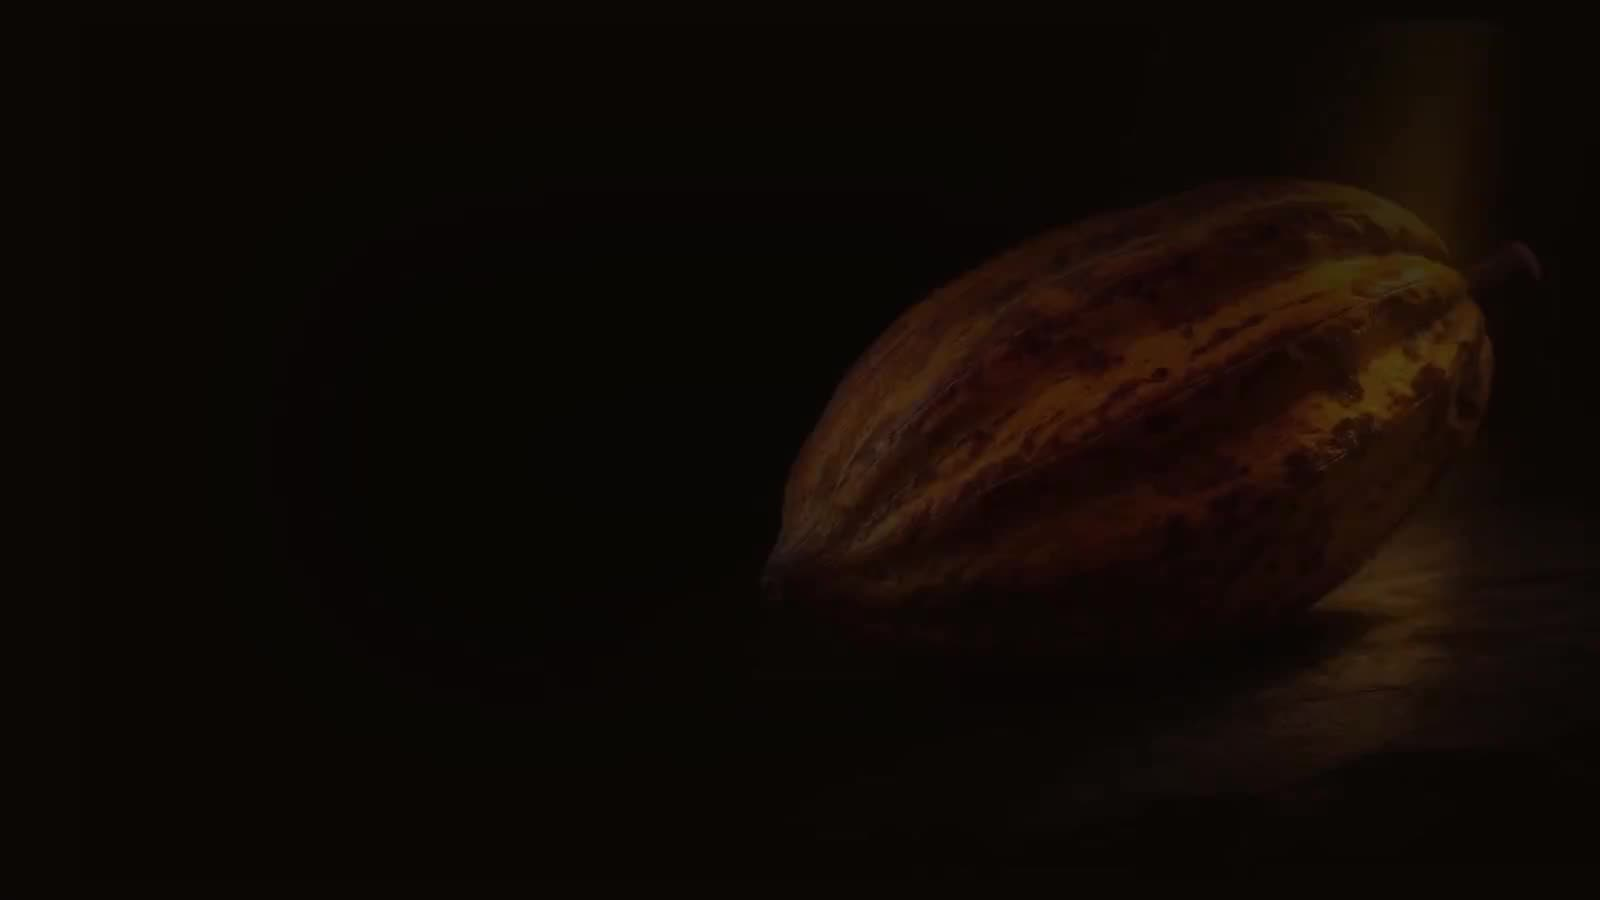
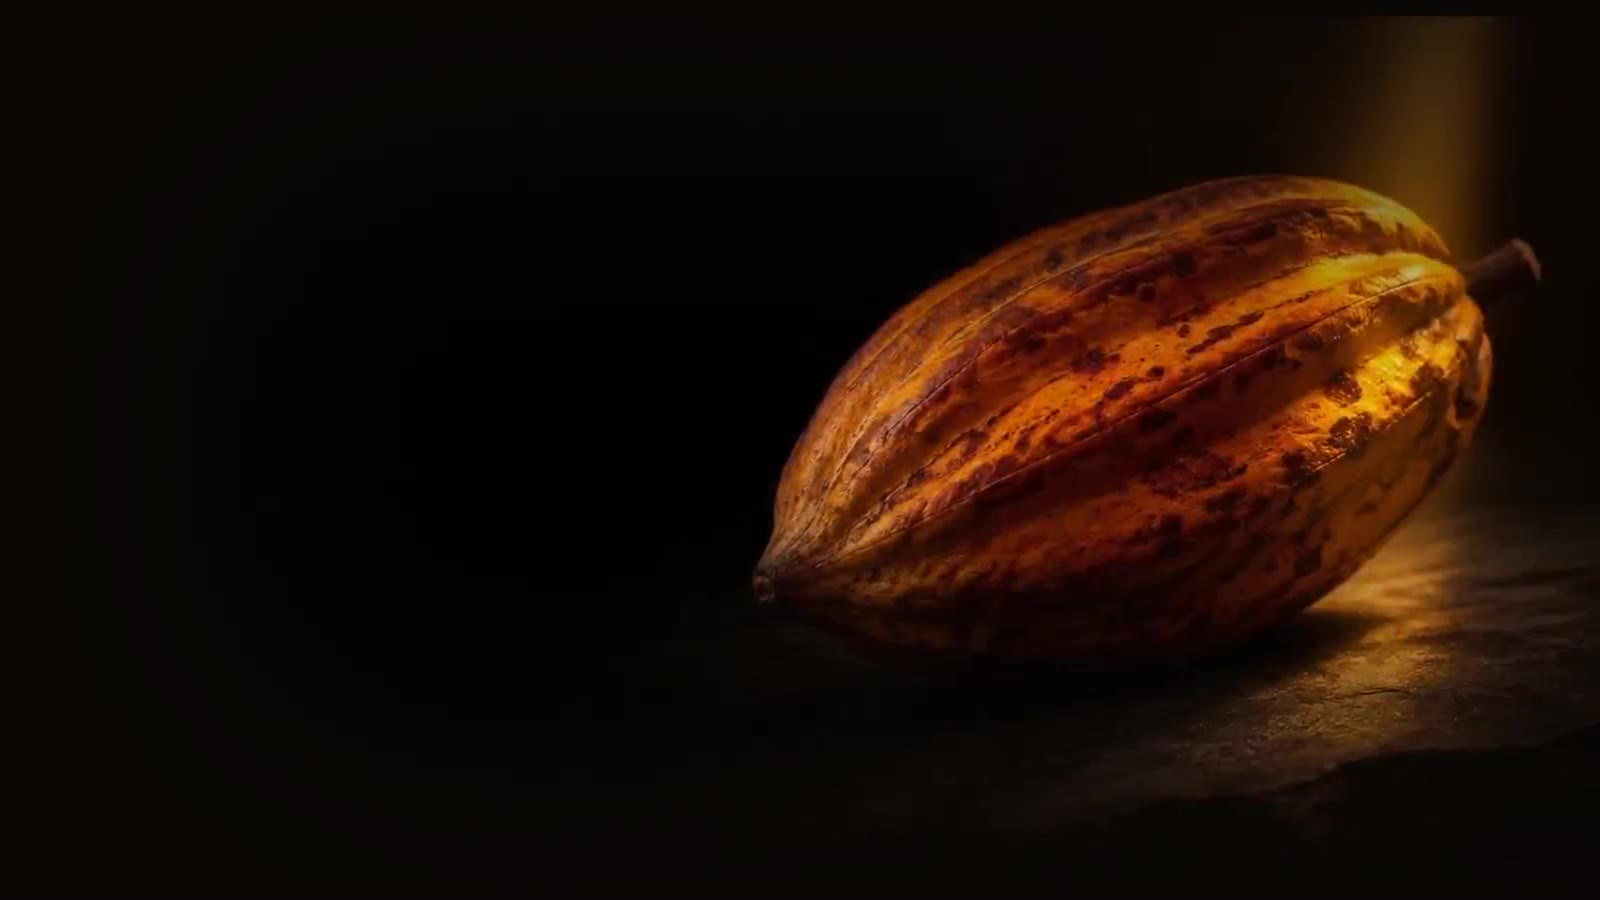
Hero film: start seamlessly from the poster frame, no restart flash
The poster now shows the film's 1-second frame, and the first play begins
from that same frame once it is ready, so the opening never fades back to
black and starts over. Later loops play the full film as before.

Claude-Session: https://claude.ai/code/session_01RfRtWpvde6YCyPrgTmdPbx

Changed region(s): [[0.4688, 0.0, 0.9688, 0.8711]]

diff --git a/index.html b/index.html
@@ -649,7 +649,18 @@ class Component extends DCLogic {
     const v = this.vid();
     if (!v) return;
     v.muted = true; v.playsInline = true; v.loop = true; v.preload = 'auto';
-    const pr = v.play(); if (pr && pr.catch) pr.catch(() => this.setState({ paused: true }));
+    // First play starts at 1s, the exact frame shown as the poster, so the film continues
+    // seamlessly from what is already on screen instead of fading in again from black.
+    // The poster stays up until that frame is ready; later loops run the full film.
+    const go = () => { const pr = v.play(); if (pr && pr.catch) pr.catch(() => this.setState({ paused: true })); };
+    if (!v._firstSeek) {
+      v._firstSeek = true;
+      let done = false; const start = () => { if (!done) { done = true; go(); } };
+      v.addEventListener('seeked', start, { once: true });
+      const seek = () => { try { v.currentTime = 1; } catch (e) { start(); } };
+      if (v.readyState >= 1) seek(); else { v.addEventListener('loadedmetadata', seek, { once: true }); v.load(); }
+      setTimeout(start, 2500);
+    } else go();
     this.setState({ paused: false });
   }
   vid() { const vs = Array.from(document.querySelectorAll('video.film')); return vs.find((x) => getComputedStyle(x).display !== 'none') || vs[0]; }
